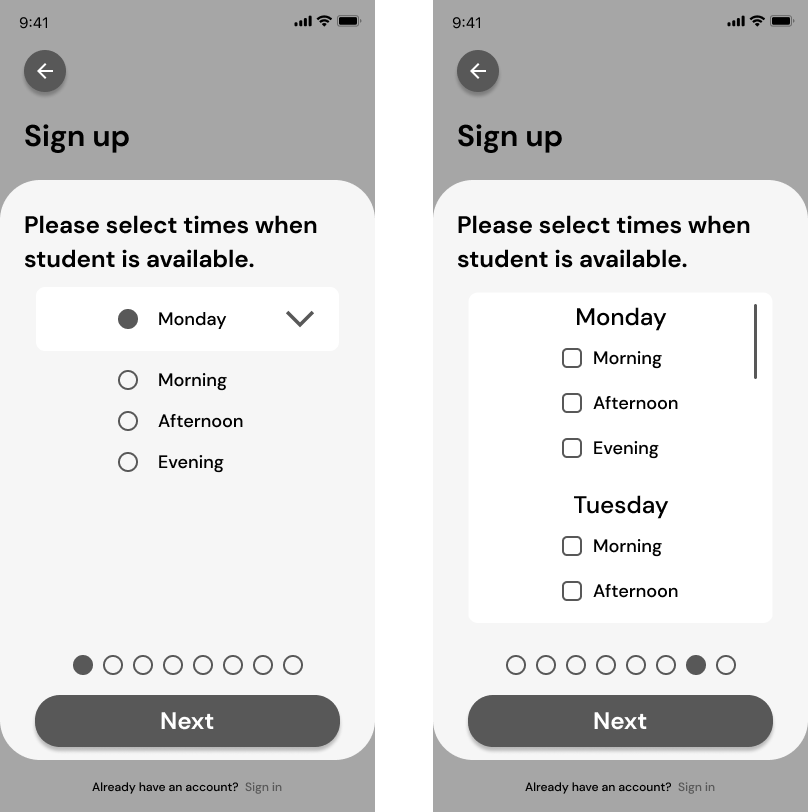
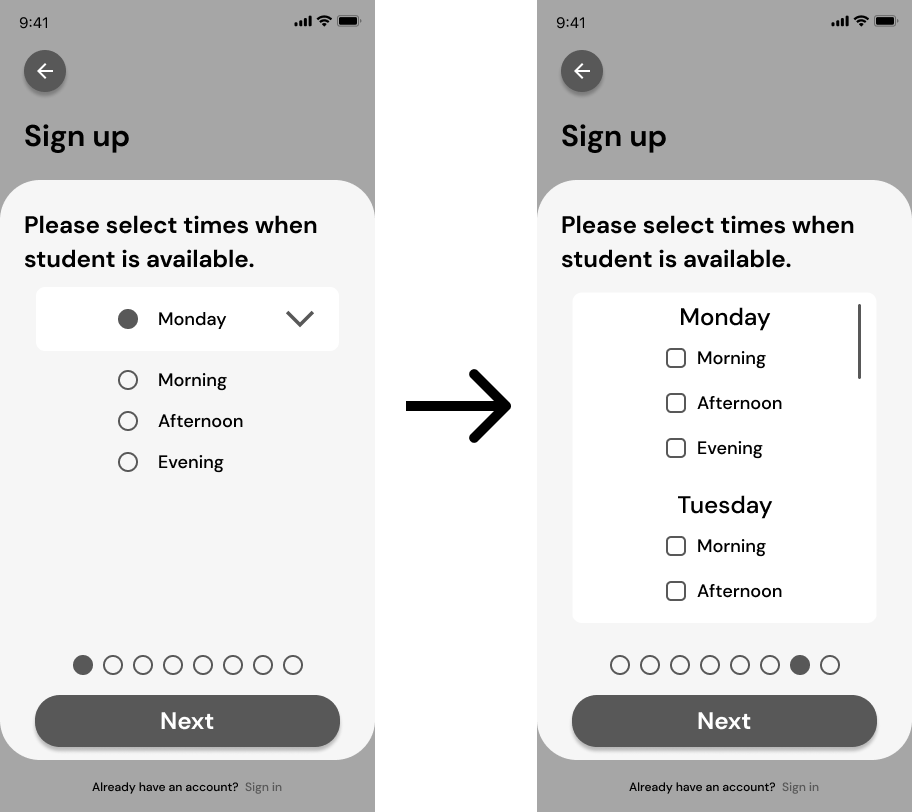
hello case study rough draft two

diff --git a/index.html b/index.html
@@ -115,7 +115,7 @@
         </div>
         <div class="hellodesign">
             <h2 class="text-center">The Design</h2>
-            <p class="text-left">With interactive prototypes of our preliminary sketches, we conducted usability tests and identified areas of integration.</p>
+            <p class="text-left">Conducting usability tests with interactive prototypes of our preliminary sketches, we identified areas of integration.</p>
             <img src="images/hellointegratedsketches.png" alt="Usability Testing" height="476" width="590" class="rounded mx-auto d-block" alt="...">
         </div>
         <div class="hellointegratedsketches">
@@ -128,22 +128,22 @@
         <div class="hellousabilitytestscontainer">
             <div class="row">
               <div class="col">
-                <img src="images/helloiteratedavailabilityselection.png" alt="Corresponding Iterated Wireframe" height="260" width="264.48" class="rounded mx-auto d-block" alt="...">
+                <img src="images/helloiteratedavailabilityselection.png" alt="Corresponding Iterated Wireframe" height="259" width="290.9" class="rounded mx-auto d-block" alt="...">
               </div>
               <div class="col">Better distinguishing between the options for day and time of day when students are choosing their availability while setting up their profile</div>
               <div class="w-100"></div>
               <div class="col">
-                <img src="images/helloiteratedmoodtracker.png" alt="Corresponding Iterated Wireframe" height="260" width="264.48" class="rounded mx-auto d-block" alt="...">
+                <img src="images/helloiteratedmoodtracker.png" alt="Corresponding Iterated Wireframe" height="259" width="290.9" class="rounded mx-auto d-block" alt="...">
               </div>
               <div class="col">Making the sizes of the buttons in the mood tracker one consistent size and clarifying the transition between the mood tracker and class with a button</div>
               <div class="w-100"></div>
               <div class="col">
-                <img src="images/helloiteratedclasscall.png" alt="Corresponding Iterated Wireframe" height="260" width="264.48" class="rounded mx-auto d-block" alt="...">
+                <img src="images/helloiteratedclasscall.png" alt="Corresponding Iterated Wireframe" height="259" width="290.9" class="rounded mx-auto d-block" alt="...">
               </div>
               <div class="col">Adding labels to the icons present during the class call</div>
               <div class="w-100"></div>
               <div class="col">
-                <img src="images/helloiteratedclassrating.png" alt="Corresponding Iterated Wireframe" height="260" width="264.48" class="rounded mx-auto d-block" alt="...">
+                <img src="images/helloiteratedclassrating.png" alt="Corresponding Iterated Wireframe" height="259" width="290.9" class="rounded mx-auto d-block" alt="...">
               </div>
               <div class="col">Adding labels to the class rating screen so that students understand the meaning of the numerical ratings</div>
             </div>
